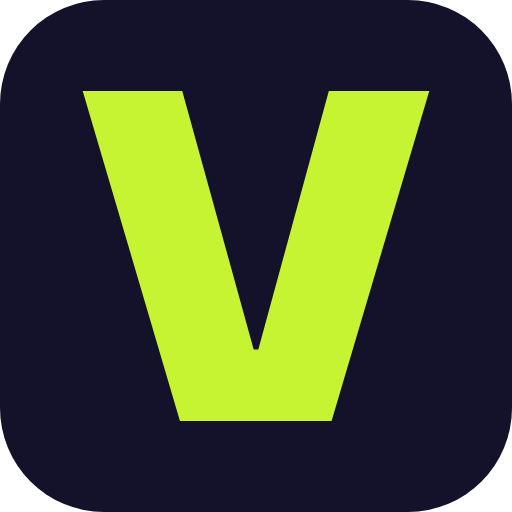
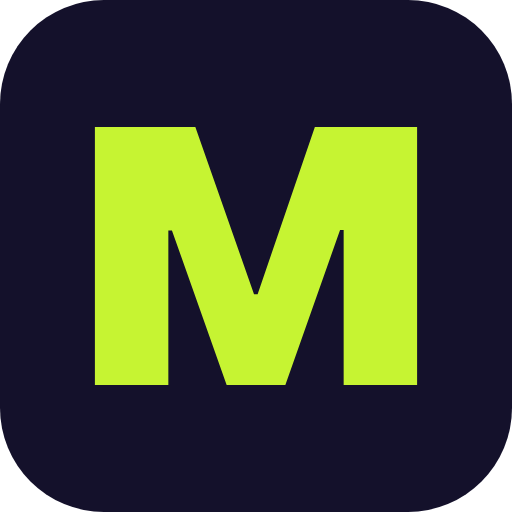
Rename the product ManyArms
New wordmark drawn from PP Object Sans Heavy, a new favicon, icons and share
card, and link previews pointing at manyarms.app. Adds a production
environment for manyarms.app, a deploy script and a deploy checklist.

Claude-Session: https://claude.ai/code/session_01DbpmQbh7ZBrk1A662GRzUB

diff --git a/src/web/Wordmark.tsx b/src/web/Wordmark.tsx
@@ -1,4 +1,4 @@
-// The Volley wordmark, drawn from PP Object Sans Heavy. Kept as outlines so it
+// The ManyArms wordmark, drawn from PP Object Sans Heavy with -21 units of tracking. Kept as outlines so it
 // never waits on the font to load. Colour follows the surrounding text.
 // Regenerate with the same outlines in public/wordmark.svg.
 
@@ -6,13 +6,13 @@ import { BRAND } from '../shared/brand';
 import { FONT_DISPLAY } from './theme';
 
 export function Wordmark({ height = 32 }: { height?: number }) {
-  // The outlines spell Volley. After a rename, show the new name as text until new outlines are drawn.
-  if (BRAND.name !== 'Volley') {
+  // The outlines spell ManyArms. After a rename, show the new name as text until new outlines are drawn.
+  if (BRAND.name !== 'ManyArms') {
     return <span style={{ display: 'block', fontFamily: FONT_DISPLAY, fontWeight: 800, fontSize: height * 0.95, lineHeight: 1, letterSpacing: '-0.03em' }}>{BRAND.name}</span>;
   }
   return (
-    <svg viewBox="10 -746 2947 981" height={height} role="img" aria-label={BRAND.name} style={{ display: 'block' }}>
-      <path fill="currentColor" d="M550.0 0.0H221.0L10.0 -716.0H226.0L381.0 -155.0H391.0L544.0 -716.0H762.0ZM749.0 -258.0Q749.0 -342.0 784.5 -403.0Q820.0 -464.0 886.0 -496.5Q952.0 -529.0 1041.0 -529.0Q1129.0 -529.0 1195.0 -496.0Q1261.0 -463.0 1296.5 -402.0Q1332.0 -341.0 1332.0 -258.0Q1332.0 -174.0 1296.5 -113.0Q1261.0 -52.0 1195.0 -19.5Q1129.0 13.0 1041.0 13.0Q952.0 13.0 886.5 -20.0Q821.0 -53.0 785.0 -114.0Q749.0 -175.0 749.0 -258.0ZM1145.0 -258.0Q1145.0 -308.0 1116.0 -340.0Q1087.0 -372.0 1041.0 -372.0Q995.0 -372.0 966.0 -340.0Q937.0 -308.0 937.0 -258.0Q937.0 -208.0 966.0 -176.0Q995.0 -144.0 1041.0 -144.0Q1087.0 -144.0 1116.0 -176.0Q1145.0 -208.0 1145.0 -258.0ZM1540.0 0.0H1353.0V-746.0H1540.0ZM1770.0 0.0H1583.0V-746.0H1770.0ZM1792.0 -260.0Q1792.0 -341.0 1829.0 -402.0Q1866.0 -463.0 1932.0 -496.0Q1998.0 -529.0 2083.0 -529.0Q2167.0 -529.0 2231.0 -495.5Q2295.0 -462.0 2330.0 -401.0Q2365.0 -340.0 2365.0 -258.0Q2365.0 -222.0 2362.0 -207.0H1985.0Q1994.0 -164.0 2022.0 -140.0Q2050.0 -116.0 2091.0 -116.0Q2124.0 -116.0 2148.0 -131.0Q2172.0 -146.0 2184.0 -172.0L2345.0 -143.0Q2326.0 -71.0 2253.5 -29.0Q2181.0 13.0 2081.0 13.0Q1996.0 13.0 1930.5 -20.5Q1865.0 -54.0 1828.5 -116.0Q1792.0 -178.0 1792.0 -260.0ZM2176.0 -307.0Q2172.0 -346.0 2145.0 -373.0Q2118.0 -400.0 2079.0 -400.0Q2041.0 -400.0 2016.0 -375.0Q1991.0 -350.0 1983.0 -307.0ZM2416.0 216.0V71.0Q2432.0 78.0 2455.0 82.0Q2478.0 86.0 2498.0 86.0Q2538.0 86.0 2562.5 64.0Q2587.0 42.0 2599.0 8.0L2346.0 -516.0H2549.0L2665.0 -231.0H2675.0L2765.0 -516.0H2957.0L2761.0 24.0Q2720.0 134.0 2668.0 184.5Q2616.0 235.0 2536.0 235.0Q2506.0 235.0 2471.5 230.0Q2437.0 225.0 2416.0 216.0Z" />
+    <svg viewBox="57 -716 5276 951" height={height} role="img" aria-label={BRAND.name} style={{ display: 'block' }}>
+      <path fill="currentColor" d="M261 0H57V-716H336L499 -252H509L668 -716H952V0H748V-430H738L586 0H423L271 -429H261ZM1007.0 -136Q1007.0 -210 1068.0 -252.5Q1129.0 -295 1257.0 -312L1347.0 -323V-346Q1347.0 -375 1329.0 -392.5Q1311.0 -410 1279.0 -410Q1248.0 -410 1228.5 -391.0Q1209.0 -372 1209.0 -340H1028.0Q1028.0 -397 1059.0 -440.0Q1090.0 -483 1147.5 -506.0Q1205.0 -529 1281.0 -529Q1357.0 -529 1414.5 -505.5Q1472.0 -482 1503.5 -439.0Q1535.0 -396 1535.0 -339V0H1347.0V-61H1337.0Q1316.0 -26 1273.5 -7.0Q1231.0 12 1179.0 12Q1101.0 12 1054.0 -27.5Q1007.0 -67 1007.0 -136ZM1347.0 -193V-224L1264.0 -212Q1187.0 -202 1187.0 -154Q1187.0 -130 1204.5 -115.5Q1222.0 -101 1252.0 -101Q1294.0 -101 1320.5 -127.0Q1347.0 -153 1347.0 -193ZM1596.0 0V-516H1783.0V-440H1793.0Q1824.0 -486 1858.5 -507.0Q1893.0 -528 1938.0 -528Q1991.0 -528 2032.5 -501.5Q2074.0 -475 2097.0 -428.0Q2120.0 -381 2120.0 -322V0H1933.0V-287Q1933.0 -325 1913.5 -348.0Q1894.0 -371 1861.0 -371Q1828.0 -371 1805.5 -346.5Q1783.0 -322 1783.0 -284V0ZM2183.0 216V71Q2199.0 78 2222.0 82.0Q2245.0 86 2265.0 86Q2305.0 86 2329.5 64.0Q2354.0 42 2366.0 8L2113.0 -516H2316.0L2432.0 -231H2442.0L2532.0 -516H2724.0L2528.0 24Q2487.0 134 2435.0 184.5Q2383.0 235 2303.0 235Q2273.0 235 2238.5 230.0Q2204.0 225 2183.0 216ZM2934.0 0H2717.0L2942.0 -716H3252.0L3476.0 0H3259.0L3225.0 -109H2968.0ZM3092.0 -537 3010.0 -259H3184.0L3102.0 -537ZM3509.0 0V-516H3695.0V-443H3706.0Q3723.0 -481 3755.0 -503.5Q3787.0 -526 3826.0 -526Q3857.0 -526 3883.0 -513V-347Q3861.0 -357 3836.0 -362.5Q3811.0 -368 3793.0 -368Q3750.0 -368 3723.0 -337.0Q3696.0 -306 3696.0 -256V0ZM3923.0 0V-516H4109.0V-433H4120.0Q4143.0 -477 4182.0 -503.0Q4221.0 -529 4269.0 -529Q4319.0 -529 4361.0 -501.5Q4403.0 -474 4422.0 -430H4432.0Q4452.0 -476 4493.0 -502.0Q4534.0 -528 4589.0 -528Q4643.0 -528 4685.0 -503.0Q4727.0 -478 4751.0 -432.5Q4775.0 -387 4775.0 -328V0H4587.0V-286Q4587.0 -322 4567.0 -346.5Q4547.0 -371 4513.0 -372Q4479.0 -372 4459.0 -348.0Q4439.0 -324 4439.0 -286V0H4251.0V-286Q4251.0 -325 4232.0 -348.5Q4213.0 -372 4181.0 -372Q4148.0 -372 4129.0 -348.5Q4110.0 -325 4110.0 -286V0ZM4816.0 -170H4975.0Q4975.0 -137 5001.5 -117.0Q5028.0 -97 5072.0 -97Q5105.0 -97 5126.0 -110.5Q5147.0 -124 5147.0 -147Q5147.0 -172 5123.0 -181.0Q5099.0 -190 5049.0 -195Q4978.0 -202 4933.5 -212.0Q4889.0 -222 4854.0 -255.5Q4819.0 -289 4819.0 -355Q4819.0 -436 4885.5 -484.0Q4952.0 -532 5063.0 -532Q5134.0 -532 5191.0 -510.5Q5248.0 -489 5280.0 -450.0Q5312.0 -411 5312.0 -359H5146.0Q5145.0 -386 5122.0 -402.5Q5099.0 -419 5063.0 -419Q5031.0 -419 5011.0 -406.0Q4991.0 -393 4991.0 -372Q4991.0 -349 5016.5 -340.5Q5042.0 -332 5100.0 -325Q5107.0 -325 5121.0 -323Q5215.0 -313 5274.0 -281.0Q5333.0 -249 5333.0 -168Q5333.0 -82 5262.0 -32.5Q5191.0 17 5068.0 17Q4952.0 17 4884.0 -33.0Q4816.0 -83 4816.0 -170Z" />
     </svg>
   );
 }

diff --git a/index.html b/index.html
@@ -15,8 +15,8 @@
     <meta property="og:type" content="website" />
     <meta property="og:title" content="%BRAND_NAME%" />
     <meta property="og:description" content="%BRAND_DESCRIPTION%" />
-    <meta property="og:url" content="https://volleydemo.vloora.com/" />
-    <meta property="og:image" content="https://volleydemo.vloora.com/og.png" />
+    <meta property="og:url" content="https://manyarms.app/" />
+    <meta property="og:image" content="https://manyarms.app/og.png" />
     <meta property="og:image:type" content="image/png" />
     <meta property="og:image:width" content="1200" />
     <meta property="og:image:height" content="630" />
@@ -24,7 +24,7 @@
     <meta name="twitter:card" content="summary_large_image" />
     <meta name="twitter:title" content="%BRAND_NAME%" />
     <meta name="twitter:description" content="%BRAND_DESCRIPTION%" />
-    <meta name="twitter:image" content="https://volleydemo.vloora.com/og.png" />
+    <meta name="twitter:image" content="https://manyarms.app/og.png" />
 
     <link rel="icon" href="/favicon.svg" type="image/svg+xml" />
     <link rel="icon" href="/favicon-32.png" sizes="32x32" type="image/png" />

diff --git a/src/shared/brand.ts b/src/shared/brand.ts
@@ -1,9 +1,10 @@
-// The product's name and how it describes itself, in one place. "Volley" is a
-// working name: change it here and in the wordmark when the real name is set,
-// then rebuild. index.html reads these at build time (vite.config.ts).
+// The product's name and how it describes itself, in one place. To rename,
+// change it here, redraw the wordmark outlines (src/web/Wordmark.tsx) and the
+// favicon, then rebuild. index.html reads these at build time (vite.config.ts).
 
 export const BRAND = {
-  name: 'Volley',
+  name: 'ManyArms',
+  domain: 'manyarms.app',
   tagline: 'Put your membership to work',
   description: 'Free membership and volunteer management software for organizations that depend on their people.',
   contact: 'hello@vloora.com',

diff --git a/scripts/og-card.html b/scripts/og-card.html
@@ -23,7 +23,7 @@
 <body>
   <div class="card">
     <div class="rule"></div>
-    <div class="mark">Volley</div>
+    <div class="mark">ManyArms</div>
     <p class="tag">Put your membership <em>to work</em></p>
   </div>
 </body>

diff --git a/docs/launch/deploy.md b/docs/launch/deploy.md
@@ -1,0 +1,32 @@
+# Deploying ManyArms
+
+What it takes to put the product with accounts at manyarms.app and the demo at demo.manyarms.app. The steps that need the owner's logins are marked "Owner".
+
+## Addresses
+
+| Address | What it is |
+|---|---|
+| manyarms.app | The product: the home page, Request free access, accounts and email |
+| demo.manyarms.app | The demo that runs in the visitor's browser, with no account |
+| vloora.com/manyarms | Vloora's product page, linking to both |
+
+Every .app domain requires HTTPS. Cloudflare provides it.
+
+## Steps
+
+1. **Owner:** buy manyarms.app and add it to the Cloudflare account that hosts vloora.com.
+2. **Owner:** create the database: `npx wrangler d1 create manyarms`. Put the id it prints in `wrangler.toml` under `[[env.production.d1_databases]]`.
+3. **Owner:** in `wrangler.toml` under `[env.production.vars]`, set `ADMIN_EMAILS` to the address that approves new organizations.
+4. **Owner:** in Resend, add and verify the sending domain (manyarms.app, or a subdomain such as mail.manyarms.app) with the DNS records Resend gives you.
+5. **Owner:** set the secrets once:
+   - `npx wrangler secret put APP_SECRET --env production` (a long random string; keep it, because changing it breaks every private link)
+   - `npx wrangler secret put RESEND_API_KEY --env production`
+   - `npx wrangler secret put EMAIL_FROM --env production` (for example `ManyArms <hello@manyarms.app>`)
+6. **Owner:** run `scripts/deploy-production.sh` with `CLOUDFLARE_API_TOKEN` and `CLOUDFLARE_ACCOUNT_ID` set. It builds, runs the database migrations and deploys.
+7. **Owner:** add `{ pattern = "demo.manyarms.app", custom_domain = true }` to the routes in `wrangler.browser-demo.toml`, then run `scripts/deploy-demo.sh`.
+8. Sign up at manyarms.app with your own email, approve the organization at manyarms.app/admin, and send yourself one ask. Check that it arrives and isn't marked as spam.
+
+## After the first deploy
+
+- Point the "Try the demo" links on vloora.com at demo.manyarms.app, and add a Request free access link to manyarms.app.
+- The free Resend plan allows 100 emails a day. Move to the paid plan before inviting organizations.

diff --git a/docs/aar-brand-and-old-positioning-2026-11-26.md b/docs/aar-brand-and-old-positioning-2026-11-26.md
@@ -61,3 +61,9 @@ No machine trace of this run was available for reconciliation.
 **Instruction (actual wording):** "remove the old sample", "and update it", then "make sure to clean up the text against humanizer and ap style skill and remove any slop".
 **What changed:** The demo's membership sample, Riverbend Design Alliance, now calls its people members, has categories (Professional, Student, Life member), renewal dates spread so every renewal report has people in it, six roles (one vacant, one term ending soon, one with a past holder, three with linked tasks), and two pending applications. It is first in the demo's sample picker. `src/worker/samples/common.ts` gained an optional `membership` block, and `src/worker/sample.ts` writes it. The Vloora site's Volley page now uses screenshots from this sample instead of the food pantry. 60 tests pass.
 **Decision made alone:** The renewal dates, roles, terms and applications in the sample, and putting it first in the picker.
+
+## Follow-up: the name ManyArms
+
+**Instruction (actual wording):** "new product is gonna be called EightArms or ManyArms (.app) deciding now", then "Many Arms is easier to say and could be fun to brand with a wordmark".
+**What changed:** `BRAND.name` is ManyArms. New wordmark outlines drawn from PP Object Sans Heavy with fontTools, at the old wordmark's tracking (checked by rebuilding the Volley outlines first). New favicon and app icons, share card and `public/wordmark.svg`. Link previews point at manyarms.app. Added an `[env.production]` block in `wrangler.toml` for manyarms.app, `scripts/deploy-production.sh`, which refuses to run until the database id and `ADMIN_EMAILS` are set, and the checklist `docs/launch/deploy.md`. Decision 0016 records the name. 60 tests pass.
+**Decisions made alone:** One word, ManyArms. The address plan. Keeping volleydemo.vloora.com alive. Leaving `ADMIN_EMAILS` empty in the repository, so no personal address is committed.

diff --git a/docs/decisions/0016-name-manyarms.md b/docs/decisions/0016-name-manyarms.md
@@ -1,0 +1,23 @@
+# 0016. The product is called ManyArms
+
+Date: 2026-11-26
+
+Status: Accepted. The owner chose the name. The agent chose the spelling and the setup, for the owner to review.
+
+## Context
+
+"Volley" and "Volly" were working names. On November 26 the owner narrowed the choice to EightArms or ManyArms, on the .app domain, then chose: "Many Arms is easier to say and could be fun to brand with a wordmark". A web search that day found no software company or app using either name. It was not a trademark search.
+
+## Decision
+
+- **Owner:** the product is ManyArms, at manyarms.app.
+- **Agent:** it is written as one word, ManyArms, to match the domain.
+- **Agent:** the wordmark is drawn from PP Object Sans Heavy with the same tracking as the old one. The favicon is the M on the dark ground.
+- **Agent:** manyarms.app is the product with accounts. demo.manyarms.app is the demo in the browser. vloora.com/manyarms is Vloora's product page. The old demo address, volleydemo.vloora.com, keeps working.
+- **Agent:** the name lives in `src/shared/brand.ts`. A future rename changes it there, plus the wordmark outlines and the favicon.
+
+## Consequences
+
+- The owner buys the domain, adds it to Cloudflare and deploys, following docs/launch/deploy.md.
+- The repository keeps its name, voluntold.
+- A trademark search should happen before launch spending.

diff --git a/README.md b/README.md
@@ -1,6 +1,6 @@
-# Volunteer tool (working title)
+# ManyArms
 
-A Vloora product. The product name is undecided.
+A Vloora product: free membership and volunteer management software for organizations that depend on their people. The repository keeps its old name, voluntold.
 
 Organizations already have volunteers but don't know how to put them to work, so people who said they'd help are never asked. This tool organizes the volunteers an organization has, by the details it cares about. It helps the organization ask the right people for each task, and records the work as done when its time passes. Volunteers answer from a link on their phone, with no account. Tasks an organization posts live in its own AT Protocol account.
 
@@ -57,7 +57,7 @@ npx wrangler dev                      # http://localhost:8787
 
 Sign in with any email. In dev mode the code shows on the screen. "Try the demo" opens the sample organizations and the guide. You can also import `samples/volunteers.csv`.
 
-To run the browser demo, the one at volleydemo.vloora.com, use `npm run dev:demo`. It needs no database or worker.
+To run the browser demo, the one at volleydemo.vloora.com (moving to demo.manyarms.app), use `npm run dev:demo`. It needs no database or worker.
 
 ## Check it
 
